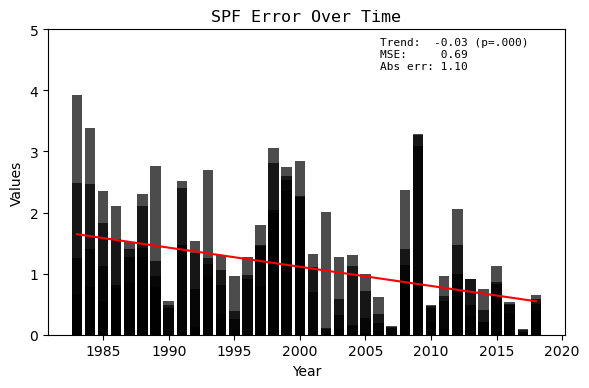
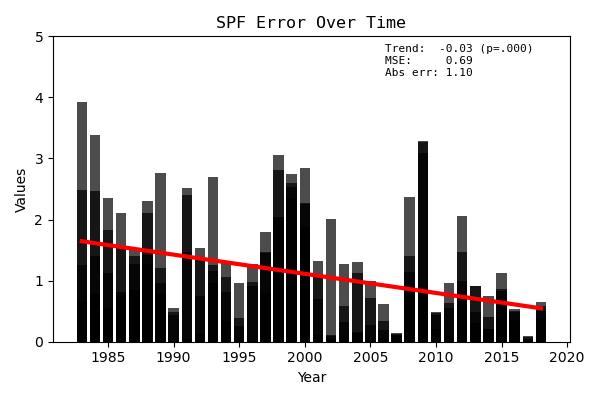
make red lines thicker

Changed region(s): [[0.0, 0.0, 1.0, 0.9897]]

diff --git a/code/main/abse_reg.py b/code/main/abse_reg.py
@@ -119,7 +119,7 @@ for i, abse_col in enumerate(abse_cols):
 
     # If it's the last row, plot in the first separate figure (fig2)
     if i == 2:
-        ax2.plot(data['Year'], predicted_values, color="red")
+        ax2.plot(data['Year'], predicted_values, color="red", linewidth=3.0)
         ax2.bar(data['Year'], data[abse_col], color="black", alpha=0.7)
         ax2.set_xlabel("Year")
         ax2.set_ylabel("Values")
@@ -127,7 +127,7 @@ for i, abse_col in enumerate(abse_cols):
 
     # If it's the last row, plot in the second separate figure (fig3)
     elif i == 3:
-        ax3.plot(data['Year'], predicted_values, color="red")
+        ax3.plot(data['Year'], predicted_values, color="red",linewidth=3.0)
         ax3.bar(data['Year'], data[abse_col], color="black", alpha=0.7)
         ax3.set_xlabel("Year")
         ax3.set_ylabel("Values")
